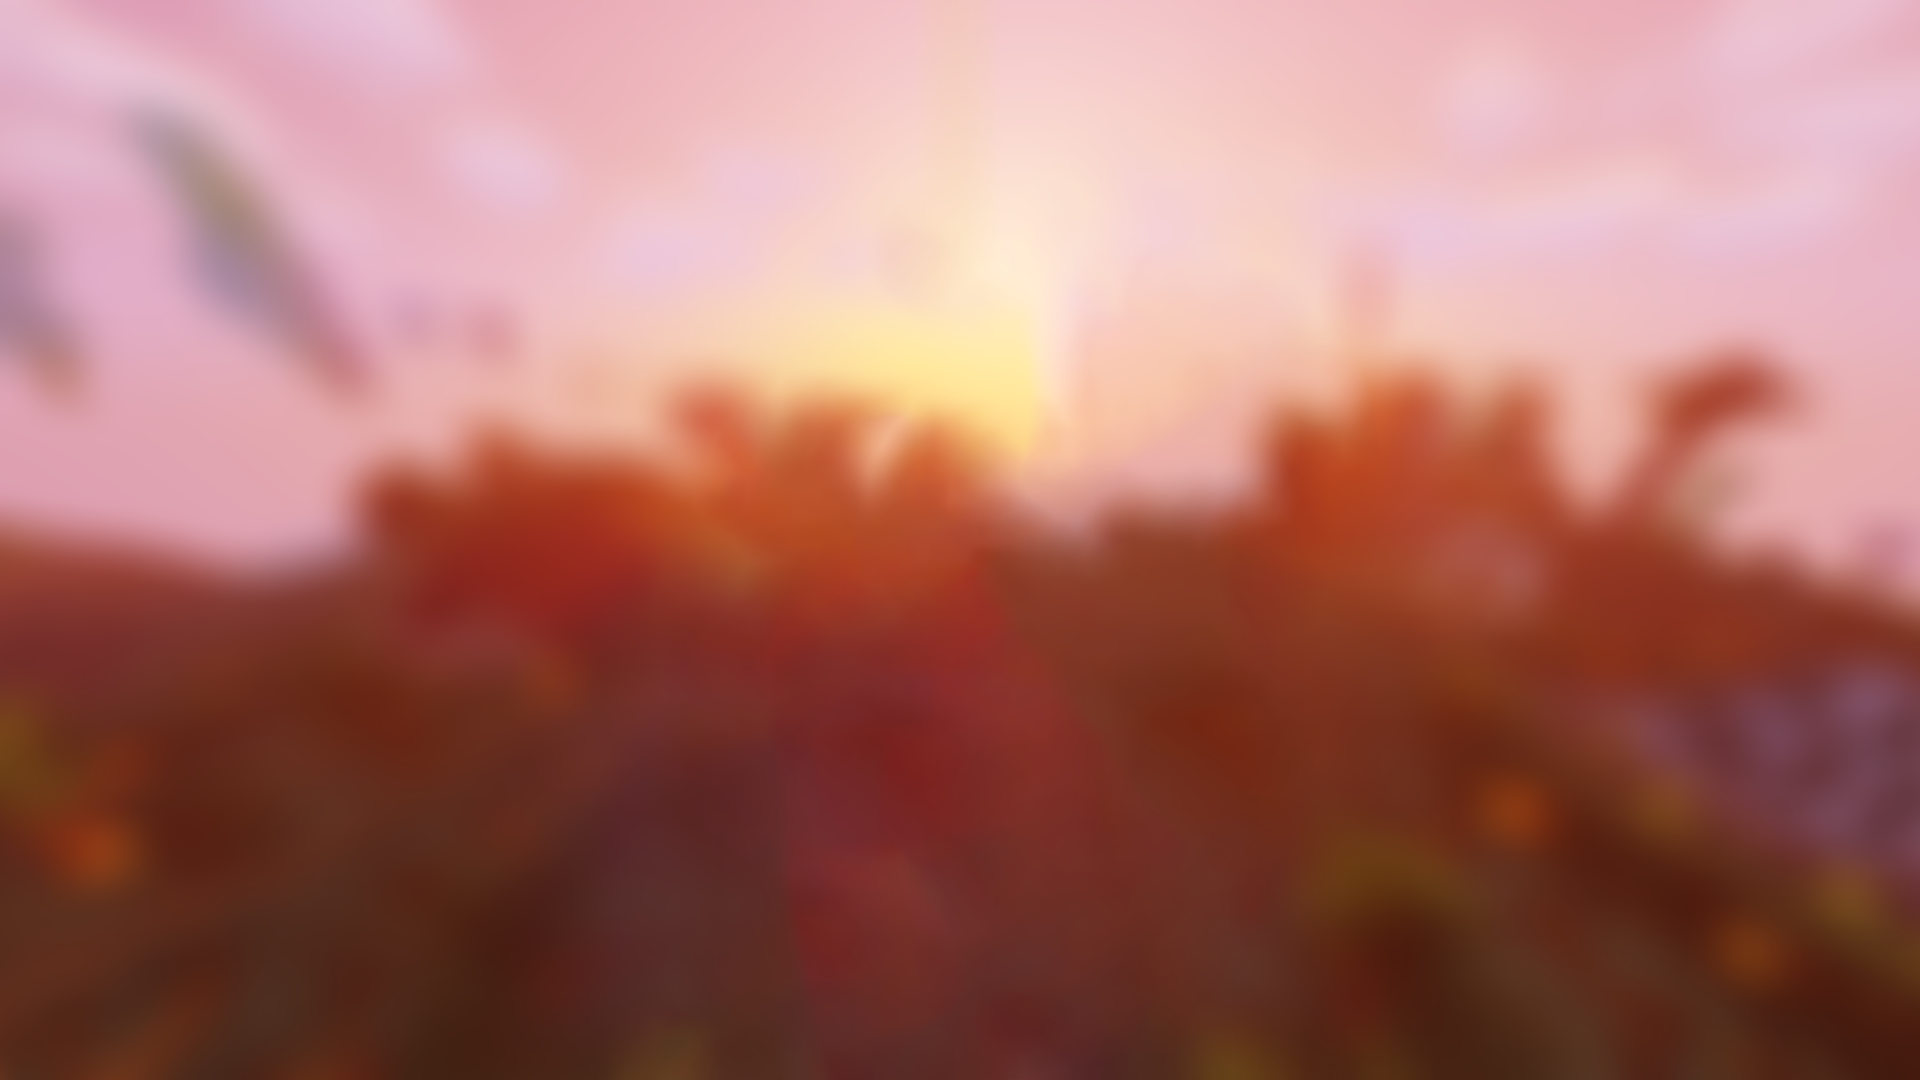
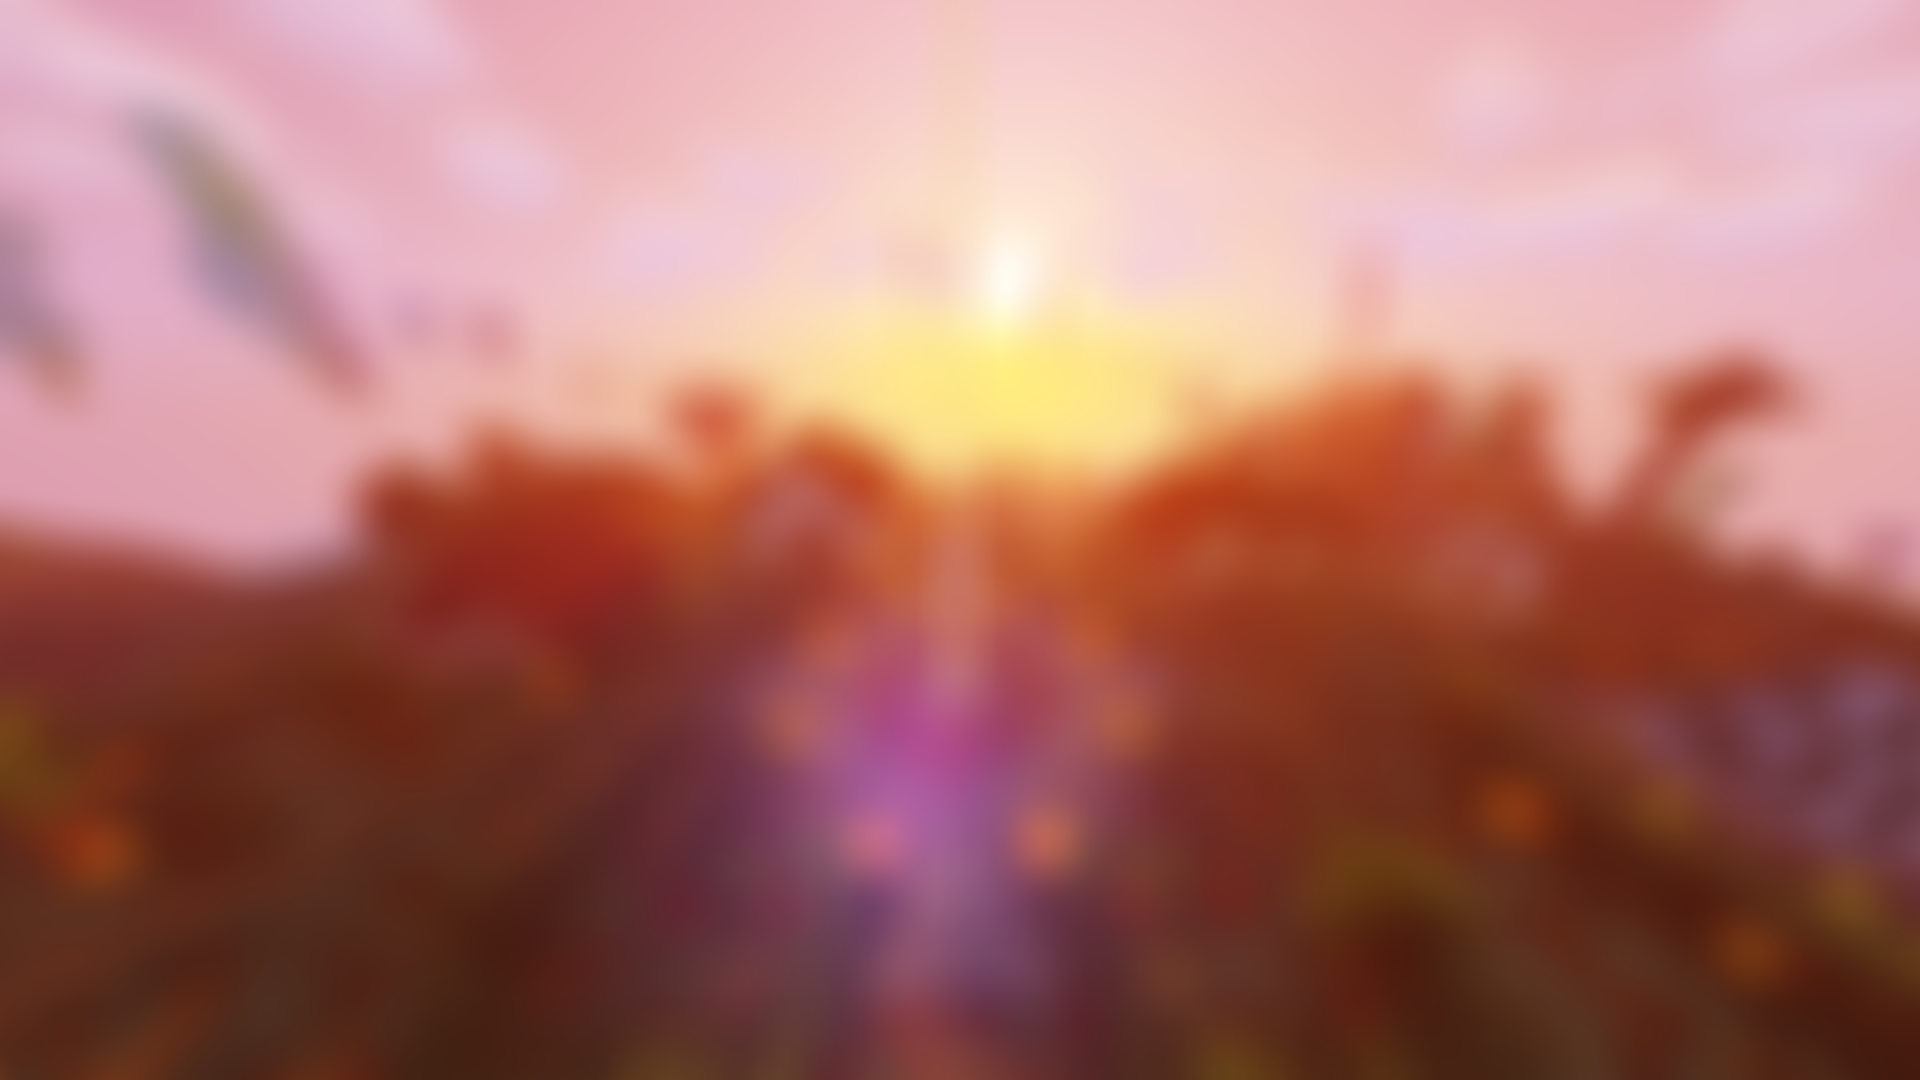
Changed default 1f1t background to night theme

Changed region(s): [[0.3438, 0.275, 0.7188, 1.0], [0.5, 0.2444, 0.5312, 0.275]]

diff --git a/emuman_flaskapp/templates/1f1t_index.html b/emuman_flaskapp/templates/1f1t_index.html
@@ -3,12 +3,12 @@
 
 {% block content %}
 <div class="content">
-    <h1 class="my-5 centered info-text">IP: 1f1n1ty.mcpro.io</h1>
+    <h1 class="my-5 centered info-text" id="transition">IP: 1f1n1ty.mcpro.io</h1>
     <p class="centered"><img src="{{ url_for('static', filename='1f1t/images/divider.png') }}" class="big-divider"></p>
     <h1 class="my-5 centered" style="font-size: 50px;">About the Server</h1>
     <div class="info-box">
         <p>Contrary to its name, 1f1t is a highly collaborative SMP with many active members. There are a few custom items and interactions to enhance the experience, without giving up that vanilla Minecraft feel.</p>
-        <p id="transition">Members can choose to form groups with each other, creating alliances and working together to reach even higher goals. You can grind for obscure resources, build incredible structures, or engage in hand-to-hand combat.</p>
+        <p>Members can choose to form groups with each other, creating alliances and working together to reach even higher goals. You can grind for obscure resources, build incredible structures, or engage in hand-to-hand combat.</p>
     </div>
     <p class="centered"><img src="{{ url_for('static', filename='1f1t/images/divider.png') }}" class="divider"></p>
     <h1 class="my-5 centered" style="font-size: 50px;">Custom Aspects</h1>

diff --git a/emuman_flaskapp/static/1f1t/css/style.css b/emuman_flaskapp/static/1f1t/css/style.css
@@ -1,5 +1,12 @@
+.start-day {
+	background: url('/static/1f1t/images/background-day.png') no-repeat center center fixed;
+}
+
+.start-night {
+	background: url('/static/1f1t/images/background-night.png') no-repeat center center fixed;
+}
+
 body {
-	background: url('/static/1f1t/images/background-day.png') no-repeat center center fixed; 
 	background-color: black;
 	
 	opacity: 1.0;

diff --git a/emuman_flaskapp/templates/1f1t_base.html b/emuman_flaskapp/templates/1f1t_base.html
@@ -21,7 +21,11 @@
         <title>1f1t</title>
     {% endif %}
 </head>
-<body>
+{% if start_day %}
+<body class="start-day">
+{% else %}
+<body class="start-night">
+{% endif %}
 
 	<div class="main-icon-container">
 		<img class="mt-5 main-icon pixel-art" src="{{ url_for('static', filename='1f1t/images/logo.png') }}" alt="1f1t logo">

diff --git a/emuman_flaskapp/routes.py b/emuman_flaskapp/routes.py
@@ -48,7 +48,7 @@ def about():
 
 @app.route("/1f1t_test")
 def test_1f1t():
-    return render_template("1f1t_index.html")
+    return render_template("1f1t_index.html", start_day=True)
 
 @app.route("/1f1t_test/custom_aspects")
 def test_1f1t_ca():
